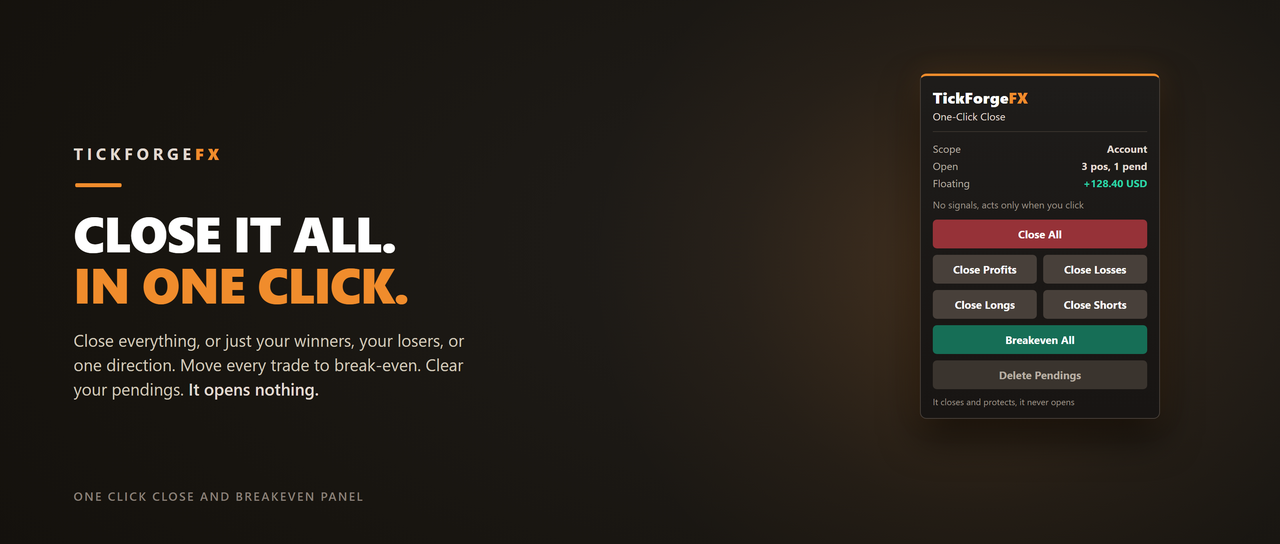
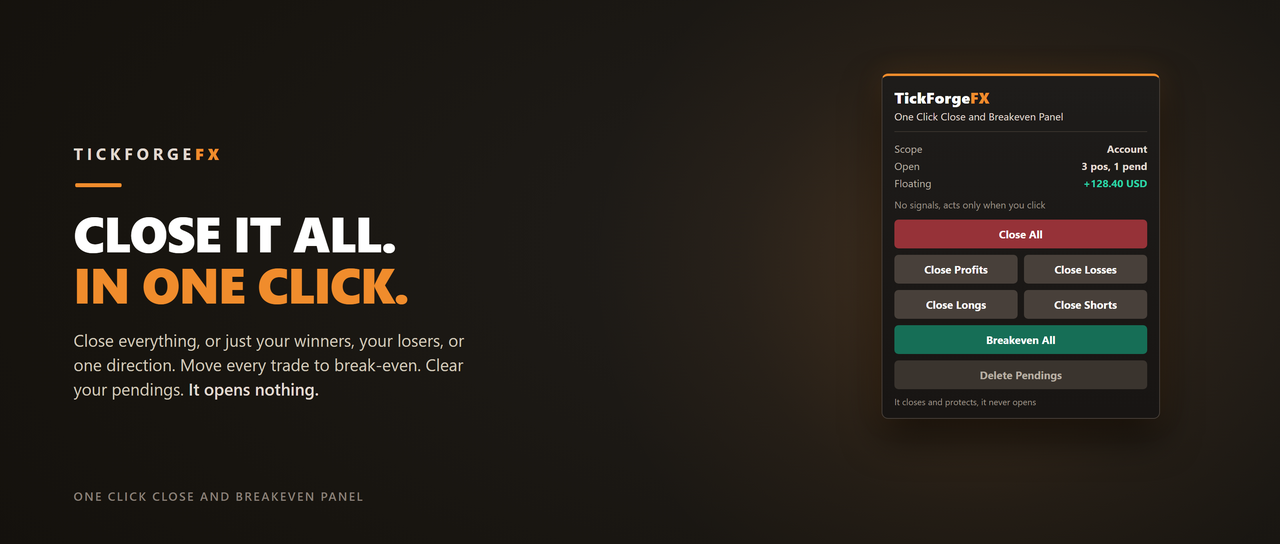
Refresh One Click Close: current panel image and the correct product name
The hero banner here still showed the old panel: narrower card, and a header that
read "One-Click Close" rather than the product's actual name. PRODUCT_PAGE.md carried
the same hyphenated title.

Replaced with the rebuilt hero and corrected the title. occ-mechanics-dark.png was
already current, because it does not draw the panel.

Checked before committing: no source files of any kind, 50 image links all resolving,
1 relative link resolving.

Changed region(s): [[0.6875, 0.125, 0.875, 0.75]]

diff --git a/products/one-click-close/PRODUCT_PAGE.md b/products/one-click-close/PRODUCT_PAGE.md
@@ -1,4 +1,4 @@
-# One-Click Close and Breakeven Panel
+# One Click Close and Breakeven Panel
 
 **Close or protect every open trade with one click.**
 
